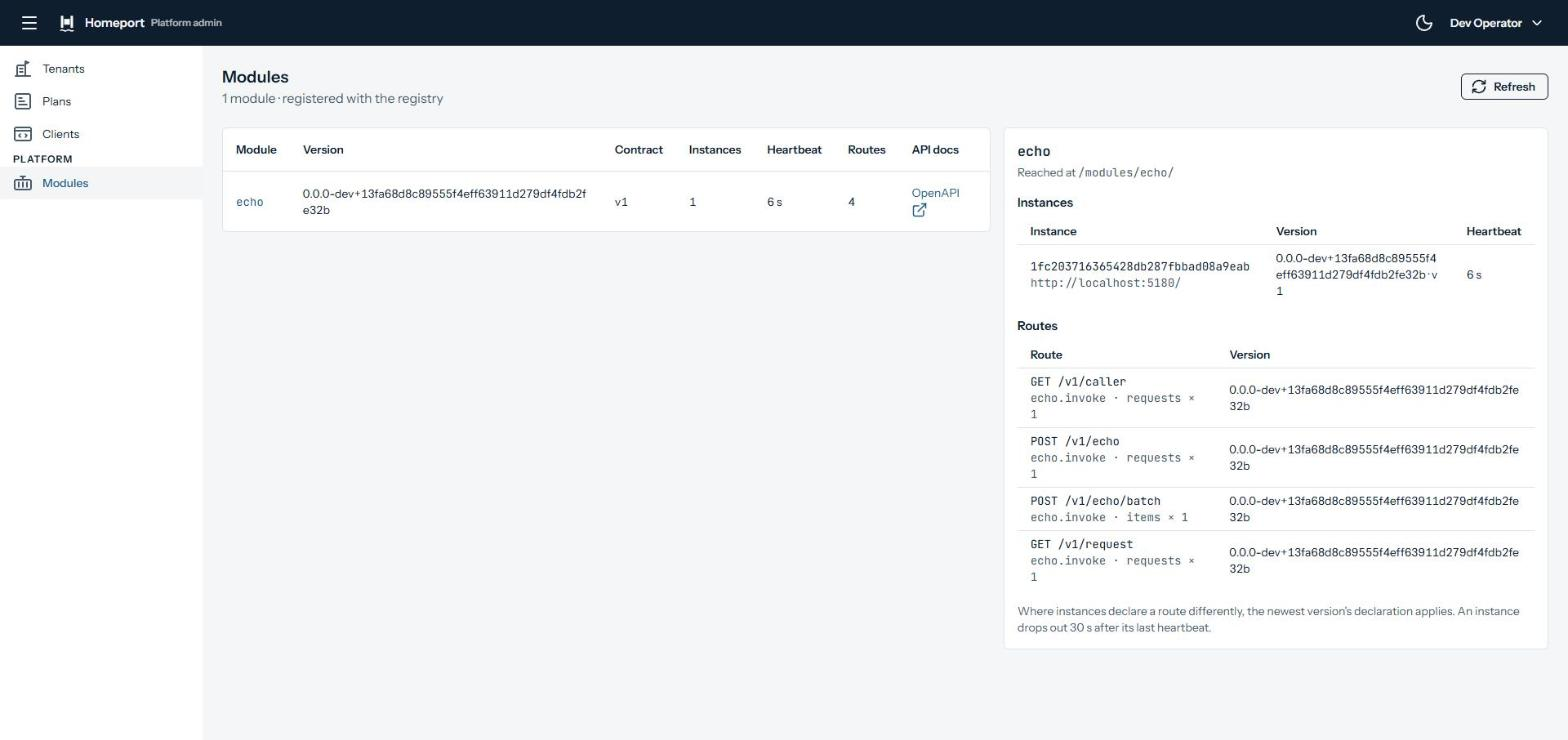
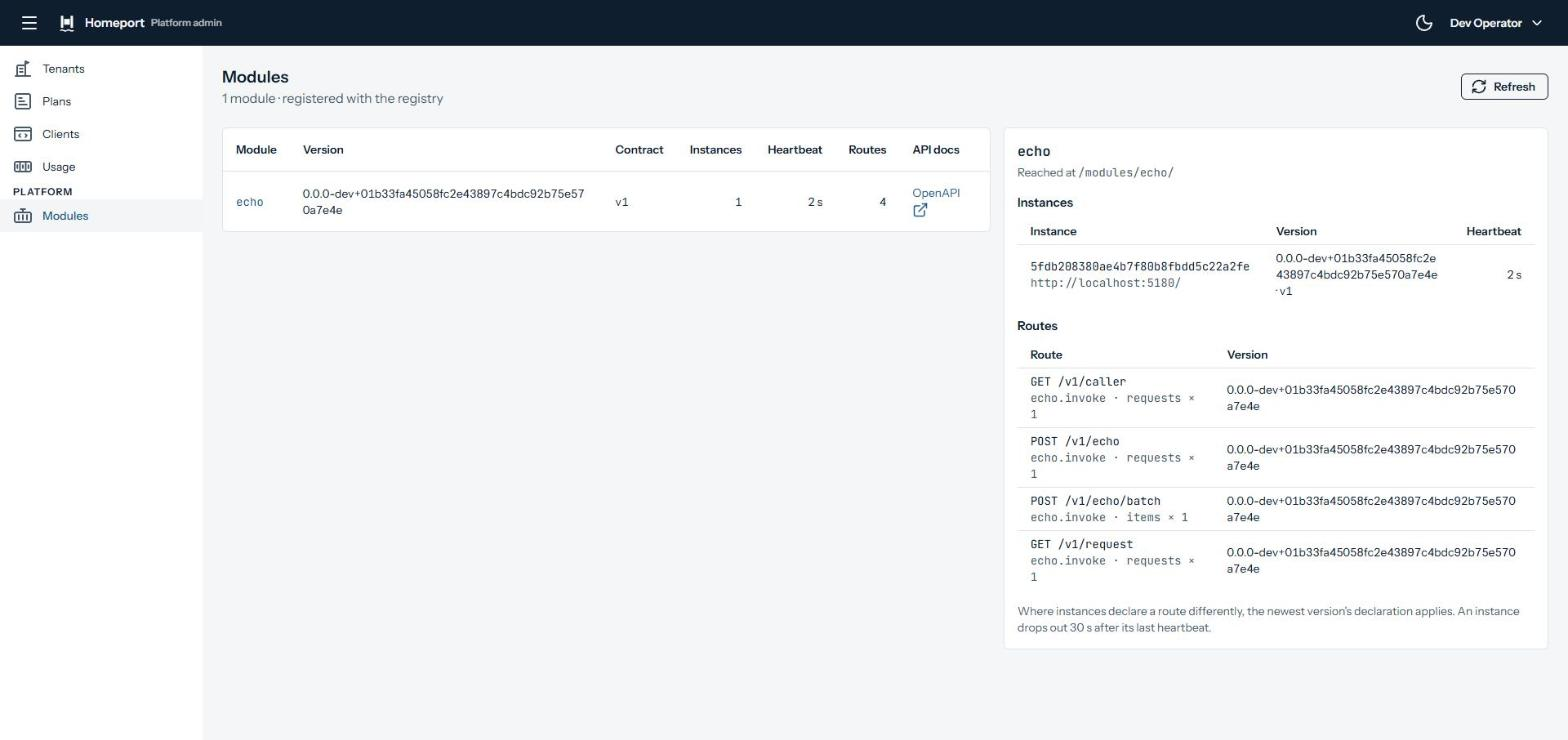
fix: right-align numbers in portal tables (#238)
- Override MudSimpleTable's text-align for .hp-num in portal.css
- Drop the scoped .hp-num rule from the Usage page
- Retake the modules, tenants and plans screenshots

diff --git a/design/dist/portal.css b/design/dist/portal.css
@@ -29,6 +29,8 @@
 /* Numbers, IDs, keys: mono + tabular figures. Use on MudTd: Class="hp-num". */
 .hp-mono, .hp-num { font-family: "JetBrains Mono", ui-monospace, "Cascadia Mono", Consolas, monospace; font-variant-numeric: tabular-nums; }
 .hp-num { text-align: right; font-weight: 500; }
+/* MudSimpleTable sets text-align: start on its cells with a higher specificity. */
+.mud-simple-table .hp-num { text-align: right; }
 .mud-chart, .mud-progress-linear { font-variant-numeric: tabular-nums; }
 
 @media (prefers-reduced-motion: reduce) {

diff --git a/src/Platform/Portal/Homeport.Platform.Portal/Components/Pages/Usage/UsagePage.razor.css b/src/Platform/Portal/Homeport.Platform.Portal/Components/Pages/Usage/UsagePage.razor.css
@@ -22,10 +22,3 @@
     font-weight: 600;
     border-top: 2px solid var(--mud-palette-divider);
 }
-
-/* Quantities to the right, as portal.css means .hp-num; MudBlazor's own
-   rule for a cell of a simple table outranks the global one. */
-th.hp-num,
-td.hp-num {
-    text-align: right;
-}
